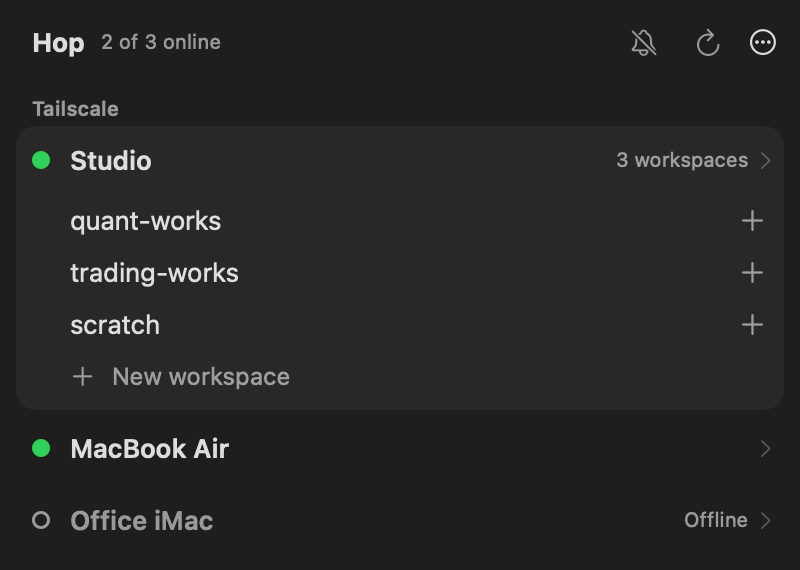
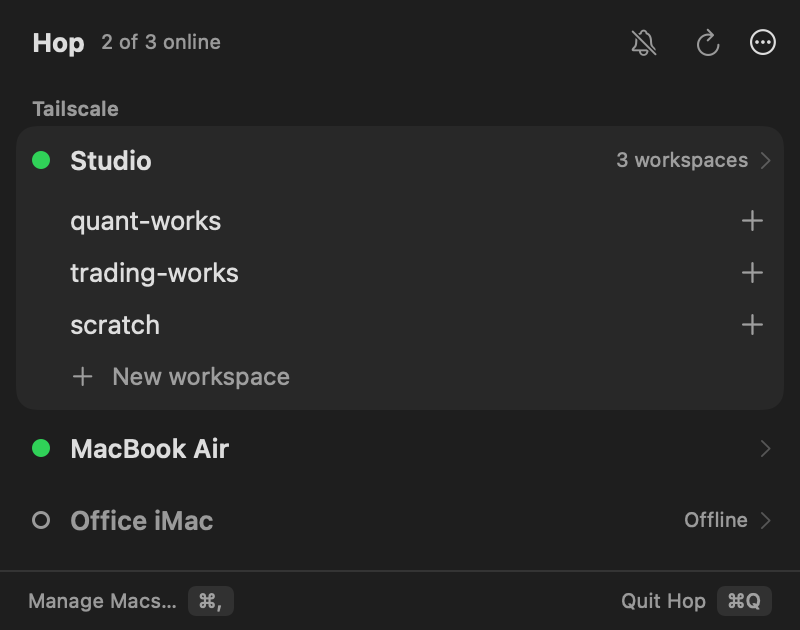
Prepare 1.1.0: new screenshots, keyboard section, version default
Retake the popover, detail and muted screenshots from the current code
and add one of the popover while typing. Add a keyboard section to the
website and the screenshot to the README, update image sizes and alt
text, and make 1.1.0 the default version for local builds.

diff --git a/docs/index.html b/docs/index.html
@@ -9,7 +9,7 @@
 <meta property="og:description" content="One click to Screen Share, SSH or open files on your remote Macs, with Tailscale discovery and Herdr workspaces.">
 <meta property="og:image" content="https://sercanatalik.github.io/hop-remote-launcher/screenshots/popover-light.png">
 <meta property="og:image:width" content="800">
-<meta property="og:image:height" content="646">
+<meta property="og:image:height" content="706">
 <meta property="og:image:alt" content="The Hop panel listing three Macs with their status and Herdr workspaces">
 <meta property="og:type" content="website">
 <meta property="og:url" content="https://sercanatalik.github.io/hop-remote-launcher/">
@@ -156,7 +156,7 @@
       <figure>
         <picture>
           <source srcset="screenshots/popover-dark.png" media="(prefers-color-scheme: dark)">
-          <img class="shot" src="screenshots/popover-light.png" width="400" height="323" alt="The Hop panel: a banner saying claude-code is waiting, then three Macs with status marks. The Studio Mac lists three Herdr workspaces, each with its agent status and a plus button for a new tab.">
+          <img class="shot" src="screenshots/popover-light.png" width="400" height="353" alt="The Hop panel: a banner saying claude-code is waiting, then three Macs with status marks. The Studio Mac lists three Herdr workspaces, each with its agent status and a plus button for a new tab. Manage Macs and Quit Hop are at the bottom.">
         </picture>
         <figcaption>The panel that opens from the menu bar</figcaption>
       </figure>
@@ -215,7 +215,7 @@
   <div class="wrap split flip">
     <picture>
       <source srcset="screenshots/muted-dark.png" media="(prefers-color-scheme: dark)">
-      <img class="shot" src="screenshots/muted-light.png" width="400" height="285" loading="lazy" alt="The Hop panel with agent status muted: workspaces are still listed without agent status, and a crossed-out bell in the header turns it back on.">
+      <img class="shot" src="screenshots/muted-light.png" width="400" height="315" loading="lazy" alt="The Hop panel with agent status muted: workspaces are still listed without agent status, and a crossed-out bell in the header turns it back on.">
     </picture>
     <div>
       <h2>Quiet when you want it</h2>
@@ -226,6 +226,26 @@
       </ul>
       <p>While muted or off, Hop shows no agent status anywhere, and a crossed-out bell appears at the top of the panel. Click it to turn status back on. Your workspaces and their buttons stay.</p>
     </div>
+  </div>
+</section>
+
+<section id="keyboard">
+  <div class="wrap split">
+    <div>
+      <h2>Reach a Mac without the mouse</h2>
+      <p>Pick a global shortcut in Manage Macs and Hop opens from any app. Then just type.</p>
+      <ul>
+        <li><strong>Type</strong> to filter the list by name or address.</li>
+        <li><strong>↑ ↓</strong> move the highlight, and <strong>↩</strong> opens that Mac's details.</li>
+        <li><strong>⌘1, ⌘2, ⌘3</strong> start Screen Share, SSH or Files on the highlighted Mac.</li>
+        <li><strong>esc</strong> clears what you typed, then closes the panel.</li>
+      </ul>
+      <p>The shortcut is off until you choose one.</p>
+    </div>
+    <picture>
+      <source srcset="screenshots/keyboard-dark.png" media="(prefers-color-scheme: dark)">
+      <img class="shot" src="screenshots/keyboard-light.png" width="400" height="171" loading="lazy" alt="The Hop panel filtered by the typed text mac: MacBook Air is outlined with its three buttons showing, and a line at the bottom names the keys.">
+    </picture>
   </div>
 </section>
 

diff --git a/README.md b/README.md
@@ -17,12 +17,12 @@ plus your Herdr workspaces and agents on those Macs.</p>
 <p align="center">
   <picture>
     <source media="(prefers-color-scheme: dark)" srcset="docs/screenshots/popover-dark.png">
-    <img src="docs/screenshots/popover-light.png" width="380" alt="The Hop panel: a banner for a waiting agent, then three Macs with status marks; the Studio Mac lists its Herdr workspaces, each with its agent status and a plus button for a new tab">
+    <img src="docs/screenshots/popover-light.png" width="380" alt="The Hop panel: a banner for a waiting agent, then three Macs with status marks; the Studio Mac lists its Herdr workspaces, each with its agent status and a plus button for a new tab. Manage Macs and Quit Hop are at the bottom">
   </picture>
   &nbsp;&nbsp;
   <picture>
     <source media="(prefers-color-scheme: dark)" srcset="docs/screenshots/mac-detail-dark.png">
-    <img src="docs/screenshots/mac-detail-light.png" width="380" alt="A Mac's detail view: Screen Share, SSH, Files and a More menu, then its Herdr workspaces with one line per agent, and the Mac's address with a copy button">
+    <img src="docs/screenshots/mac-detail-light.png" width="380" alt="A Mac's detail view: its status and response time, then Screen Share, SSH, Files and a More menu, its Herdr workspaces with one line per agent, and the Mac's address with a copy button">
   </picture>
 </p>
 
@@ -68,6 +68,13 @@ Phones, tablets and TVs on your tailnet are never listed.
 Set a global shortcut under **Shortcut** in the Manage Macs toolbar (⌃⌥Space, ⌃⌥H or ⌥⌘H; off by default) to open the panel from any app. Press it again to close.
 
 With the panel open, just type to filter the list by name or address. While you type:
+
+<p align="center">
+  <picture>
+    <source media="(prefers-color-scheme: dark)" srcset="docs/screenshots/keyboard-dark.png">
+    <img src="docs/screenshots/keyboard-light.png" width="380" alt="The Hop panel filtered by the typed text mac: MacBook Air is outlined with its three buttons showing, and a line at the bottom names the keys">
+  </picture>
+</p>
 
 | Key | Does |
 |---|---|
